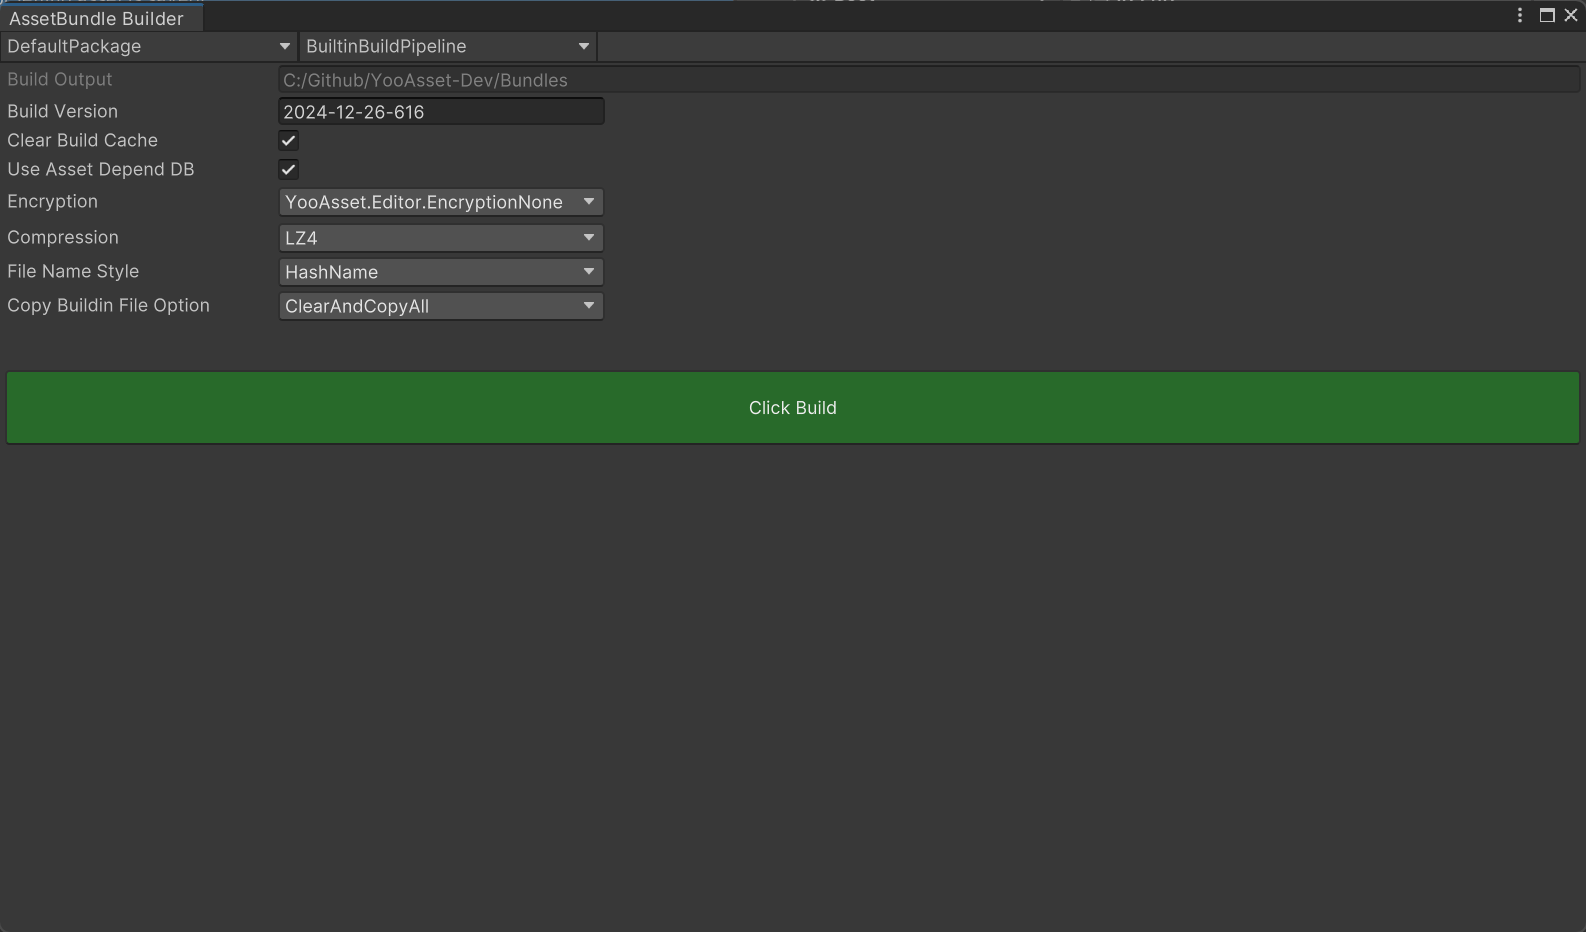
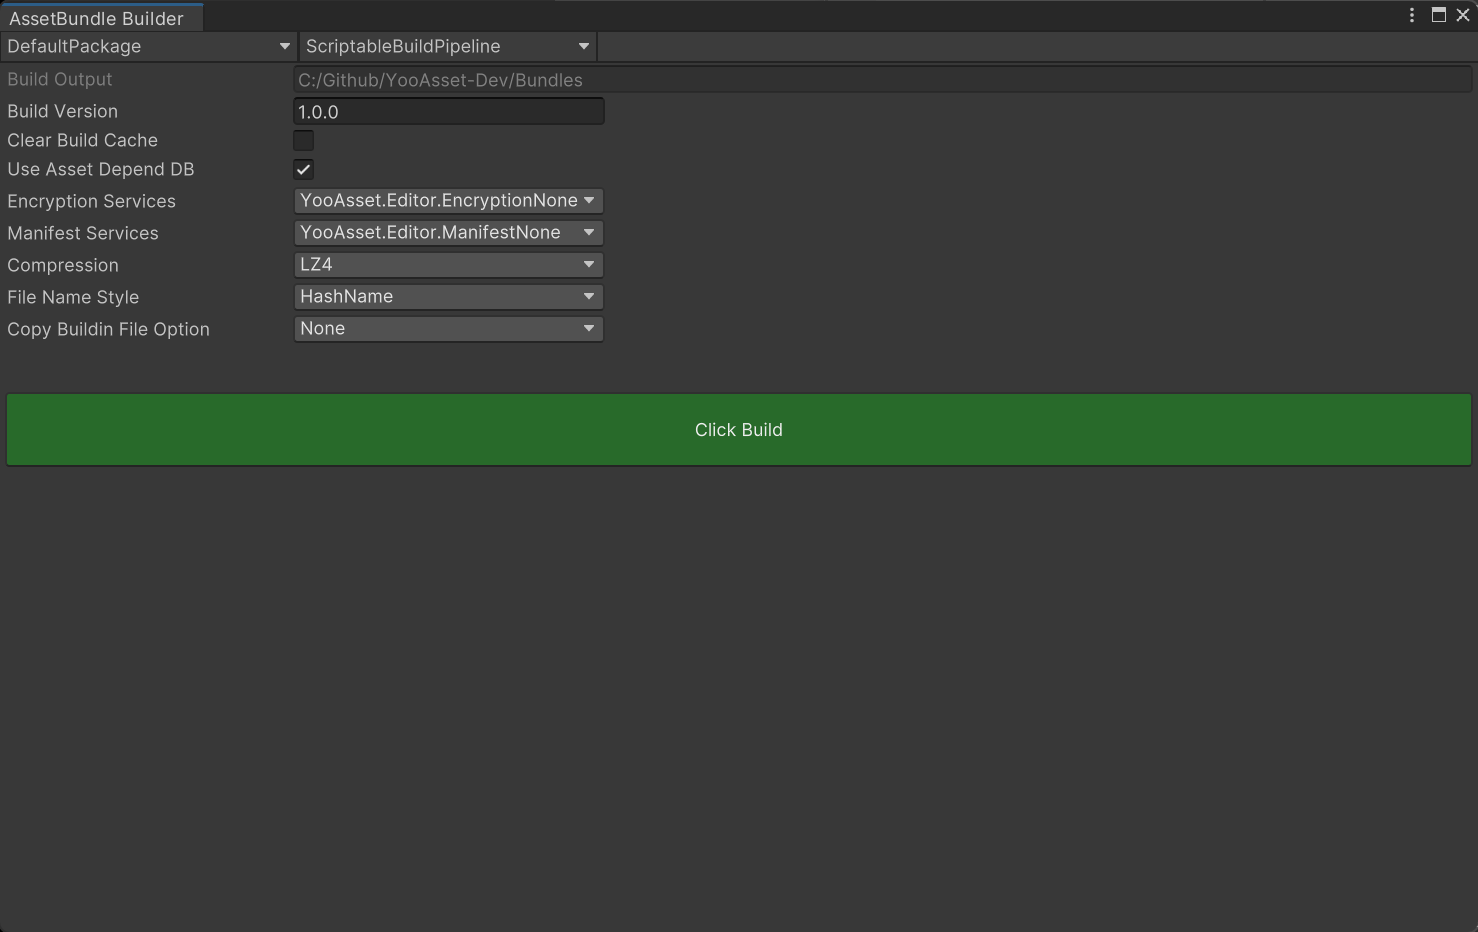
update docs

Changed region(s): [[0.0, 0.0, 0.9959, 0.4979], [0.1867, 0.0311, 0.4046, 0.1245], [0.9648, 0.0, 0.9959, 0.0311]]

diff --git a/yoo-website/versioned_docs/version-2.3.x/800-MiniGame.md b/yoo-website/versioned_docs/version-2.3.x/800-MiniGame.md
@@ -39,7 +39,7 @@ IEnumerator InitPackage()
 
 首先安装WX-WASM-SDK-V2 Unity插件，然后导入微信文件系统相关代码。
 
-微信文件系统相关代码在扩展工程内：Extension Sample --> Runtime --> ExtensionFileSystem --> [WechatFileSystem](https://github.com/tuyoogame/YooAsset/tree/dev/Assets/YooAsset/Samples~/Extension%20Sample/Runtime/ExtensionFileSystem/WechatFileSystem)
+微信文件系统相关代码在扩展工程内：Mini Game --> Runtime --> [WechatFileSystem](https://github.com/tuyoogame/YooAsset/tree/dev/Assets/YooAsset/Samples~/Extension%20Sample/Runtime/ExtensionFileSystem/WechatFileSystem)
 
 **文件系统注意事项**
 
@@ -132,7 +132,7 @@ string packageRoot = $"{WeChatWASM.WX.env.USER_DATA_PATH}/__GAME_FILE_CACHE/yoo"
 
 首先安装字节小游戏相关的Unity插件，然后导入抖音文件系统相关代码。
 
-抖音文件系统相关代码在扩展工程内：Extension Sample --> Runtime --> ExtensionFileSystem--> [TiktokFileSystem](https://github.com/tuyoogame/YooAsset/tree/dev/Assets/YooAsset/Samples~/Extension%20Sample/Runtime/ExtensionFileSystem/TiktokFileSystem)
+抖音文件系统相关代码在扩展工程内：Mini Game --> Runtime --> [TiktokFileSystem](https://github.com/tuyoogame/YooAsset/tree/dev/Assets/YooAsset/Samples~/Extension%20Sample/Runtime/ExtensionFileSystem/TiktokFileSystem)
 
 **文件系统注意事项**
 

diff --git a/yoo-website/versioned_docs/version-2.3.x/001-guide-editor/004-AssetBundleBuilder.md b/yoo-website/versioned_docs/version-2.3.x/001-guide-editor/004-AssetBundleBuilder.md
@@ -50,9 +50,13 @@
 
   <u>当开启此项的时候，会极大提高构建速度！</u>
 
-- **Encryption**
+- **Encryption Services**
 
-  加密类列表。
+  资源包加密类列表。
+
+- **Manifest Services**
+
+  清单处理类列表。
 
 - **Compression**
 
@@ -86,9 +90,11 @@
 
   点击构建按钮会开始构建流程，构建流程分为多个节点顺序执行，如果某个节点发生错误，会导致构建失败。错误信息可以在控制台查看。
 
-### 加密方法
+### 资源加密
 
 在Editor目录下实现一个继承IEncryptionServices接口的类。
+
+构建页面选择资源加密服务类。
 
 加密支持三种方式：
 
@@ -97,6 +103,12 @@
 - LoadFromStream 通过文件流来解密加载。
 
 参考：[加密示例代码](https://github.com/tuyoogame/YooAsset/blob/dev/Assets/YooAsset/Samples~/Test%20Sample/Runtime/T2_TestBuldinFileSystem/TestBundleEncryption.cs)
+
+### 清单加密
+
+在Editor目录下实现一个继承IManifestServices接口的类。
+
+构建页面选择清单加密服务类。
 
 ### 补丁包
 
